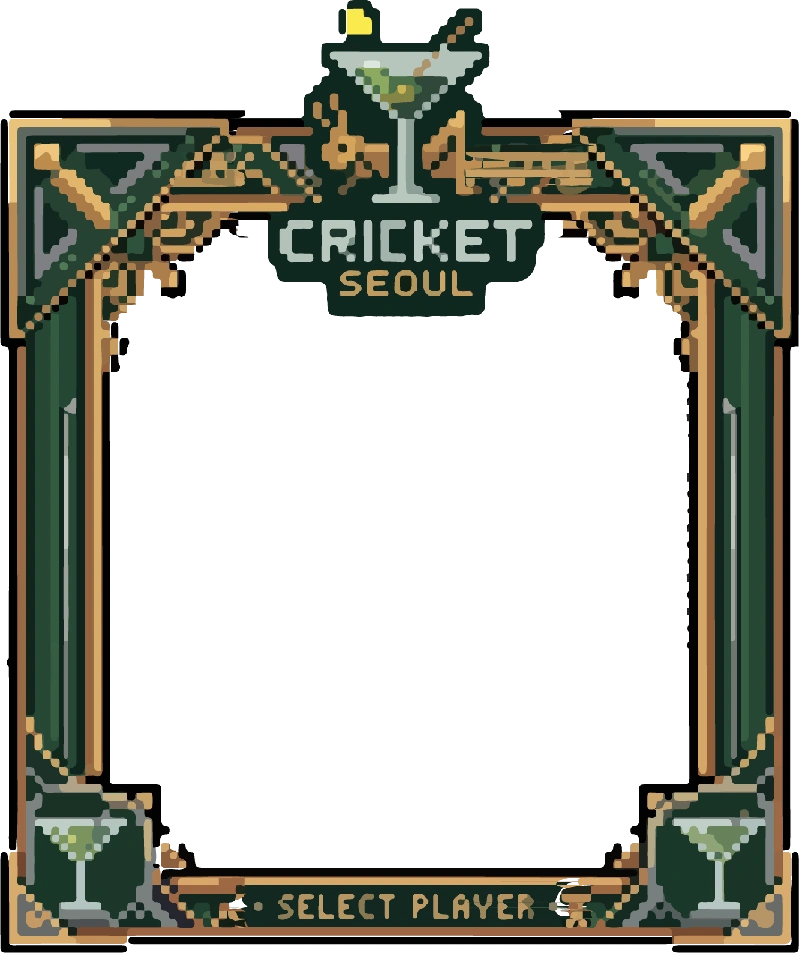
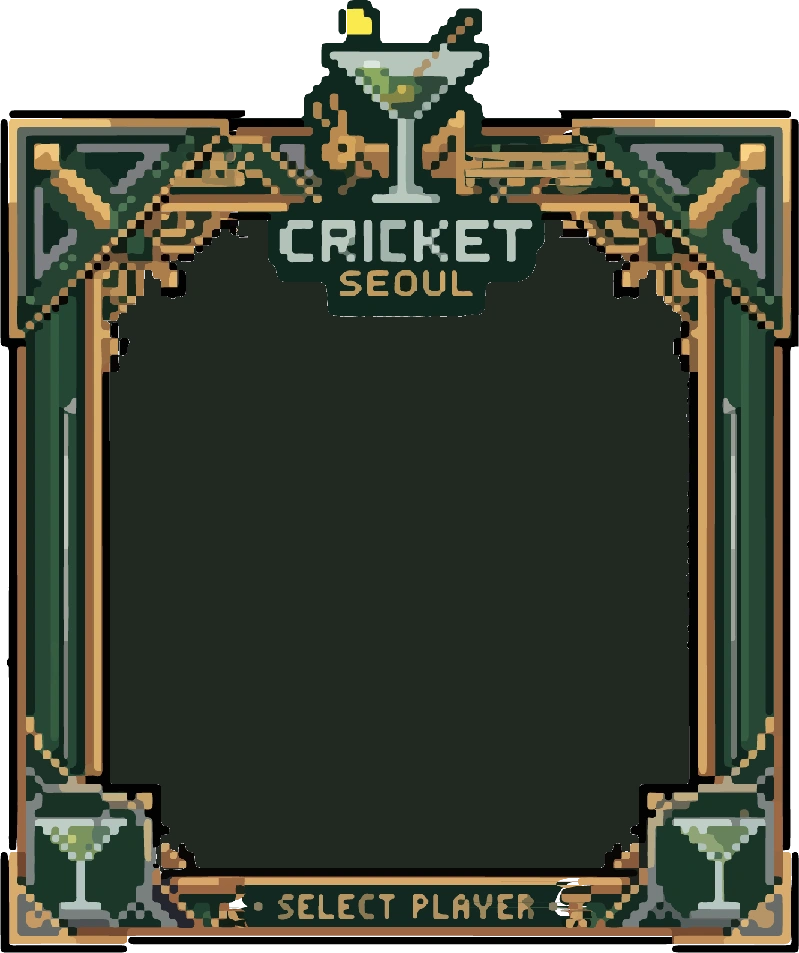
크리켓 경주: 선택 프레임 안쪽을 모양 그대로 어둡게
- 사각형 반투명 덮개로는 위쪽 아치와 기둥 안쪽이 덮이지 않아 밝은 부분이 남았음
- 프레임 가운데에서 번져나가는 채우기로 테두리에 막힐 때까지 안쪽만 칠해, 개구부 모양 그대로 짙게 baked
- 색도 더 어둡게 (짙은 숲색, 불투명도 91%)
- 어두워진 배경에 맞춰 캐릭터 이름표를 밝은 크림색으로, 안 고른 카드는 더 가라앉고 고른 카드는 또렷하게

diff --git a/public/cricket/race.html b/public/cricket/race.html
@@ -46,12 +46,8 @@ body{background:var(--dark);color:var(--ink);font-family:"Iowan Old Style","Appl
 .card{position:relative;min-width:0;aspect-ratio:799/953;background:url("ui_frame.webp") center/100% 100% no-repeat;
   border:none;border-radius:0;padding:0;text-align:center;cursor:pointer;transition:transform .12s, filter .12s;
   cursor:pointer;position:relative;transition:.18s;overflow:hidden}
-.card{filter:saturate(.6) brightness(.96)}
-.card.on{filter:none}
-/* 프레임 안쪽을 어둡게 깔아 바깥 배경과 구분 */
-.card .op{position:absolute;left:13.6%;right:13.8%;top:33.2%;bottom:8.9%;
-  background:rgba(14,22,14,.55);pointer-events:none}
-.card.on .op{background:rgba(14,22,14,.34)}
+.card{filter:saturate(.5) brightness(.82)}
+.card.on{filter:saturate(1.05) brightness(1.06)}
 /* 고르면 캐릭터 위에 체크 */
 .card .chk{position:absolute;left:50%;top:44%;transform:translate(-50%,-50%) scale(.6);
   opacity:0;transition:opacity .12s, transform .12s;pointer-events:none;z-index:3;width:38%}
@@ -480,9 +476,9 @@ let picked=[];
 const grid=document.getElementById("grid"), cntEl=document.getElementById("cnt"), goBtn=document.getElementById("go");
 CHARS.forEach((c,i)=>{
  const d=document.createElement("div"); d.className="card"; d.dataset.i=i;
- d.innerHTML='<div class="op"></div><div class="in"><img class="ch" src="sprites/'+c.id+'_0.png" alt=""></div>';
+ d.innerHTML='<div class="in"><img class="ch" src="sprites/'+c.id+'_0.png" alt=""></div>';
  const ck=pixelCheck(); ck.className="chk"; d.appendChild(ck);
- const lab=pixelLabel(c.name,3,"#24331f","rgba(255,255,255,.55)");
+ const lab=pixelLabel(c.name,3,"#f0e4c6","rgba(0,0,0,.7)");
  lab.className="nm";
  d.querySelector(".in").appendChild(lab);
  d.onclick=()=>{